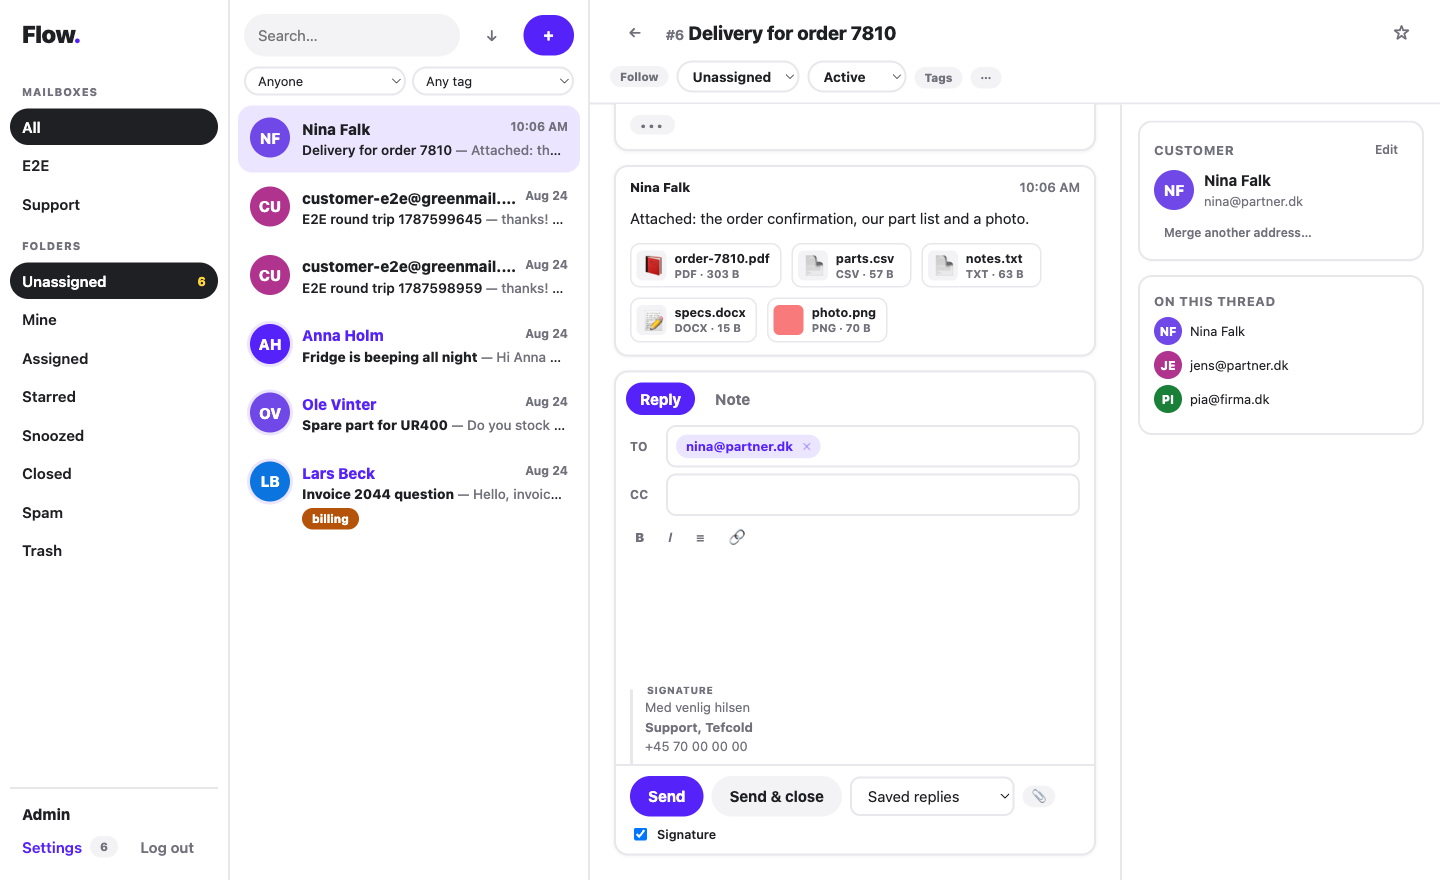
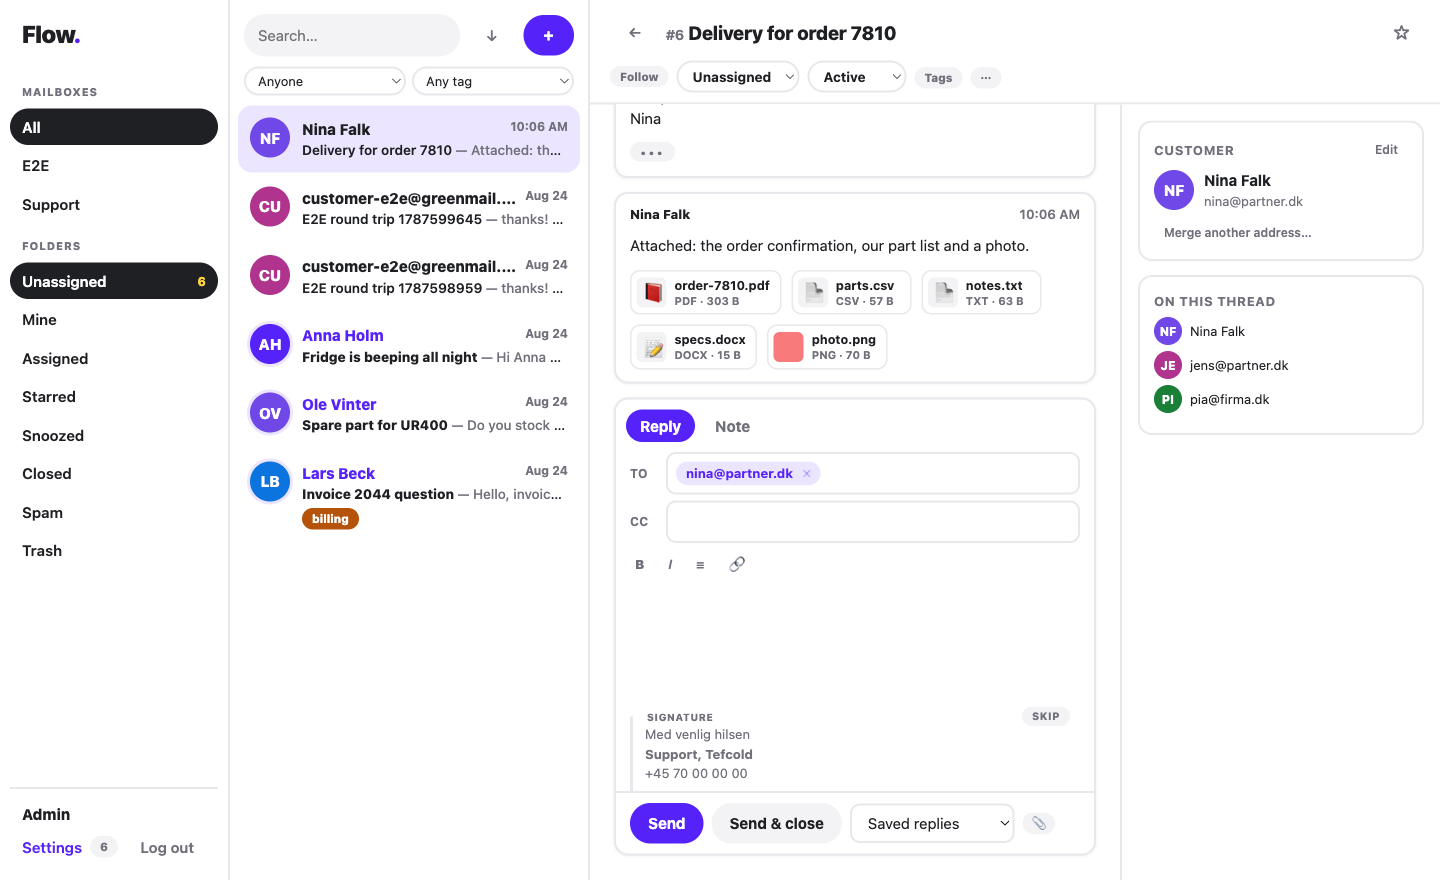
Signature toggle redesigned onto the preview block (skip/undo), org-level default signature with agent>mailbox>org precedence, provider-managed hints, brand-styled checkboxes; fresh README screenshot

diff --git a/frontend/src/components/Composer.vue b/frontend/src/components/Composer.vue
@@ -30,10 +30,11 @@ let savedDraftBody = ''
 
 const isNote = computed(() => mode.value === 'note')
 
-// What will actually be appended on send (A19): agent's own, else mailbox.
+// What will actually be appended on send (A19): agent > mailbox > org default.
 const effectiveSignature = computed(() =>
   session.agent?.signature?.trim() ||
-  inbox.mailboxes.find((m) => m.id === props.conversation.mailbox_id)?.signature || ''
+  inbox.mailboxes.find((m) => m.id === props.conversation.mailbox_id)?.signature ||
+  session.org?.default_signature || ''
 )
 const includeSignature = ref(true)
 
@@ -163,10 +164,15 @@ async function insertSavedReply(e) {
     <RichEditor ref="editor" :placeholder="isNote ? `${t.internalNote} — @name notifies` : `${t.reply}…`"
                 @input="onInput" />
     <PendingFiles :files="files" @remove="(i) => files.splice(i, 1)" />
-    <div v-if="!isNote && effectiveSignature && includeSignature" class="sig-preview"
-         data-tip="Appended when the mail is sent — toggle below">
+    <div v-if="!isNote && effectiveSignature && includeSignature" class="sig-preview">
       <span class="sig-label">signature</span>
+      <button type="button" class="sig-skip" data-tip="Don't append the signature to this mail"
+              @click="includeSignature = false">Skip</button>
       <div v-html="effectiveSignature"></div>
+    </div>
+    <div v-else-if="!isNote && effectiveSignature" class="sig-skipped">
+      Signature won't be added —
+      <button type="button" class="ghost" style="padding:0 6px" @click="includeSignature = true">undo</button>
     </div>
     <div class="actions">
       <template v-if="isNote">
@@ -182,10 +188,6 @@ async function insertSavedReply(e) {
         <label style="margin:0">
           <input type="file" multiple style="display:none" @change="pickFiles" />
           <span class="pill" style="cursor:pointer" data-tip="Attach files">📎 {{ files.length || '' }}</span>
-        </label>
-        <label v-if="effectiveSignature" class="choice" style="margin:0; font-size:12.5px"
-               data-tip="Append your signature to this reply">
-          <input type="checkbox" v-model="includeSignature" /> Signature
         </label>
       </template>
       <span class="spacer"></span>

diff --git a/frontend/src/pages/Settings.vue b/frontend/src/pages/Settings.vue
@@ -248,6 +248,12 @@ const NOTIFY_LABELS = {
         <div><label>Base URL</label><input v-model="org.base_url" placeholder="https://inbox.example.com" style="width:100%" /></div>
         <div><label>Notify from (email)</label><input v-model="org.notify_from" style="width:100%" /></div>
       </div>
+      <h3 style="margin-top:16px">Company signature (all mailboxes)</h3>
+      <p class="hint-text">Used when neither the agent nor the mailbox has its own signature.
+        Leave every signature field empty if signatures are stamped centrally by your provider
+        (Microsoft 365 transport rules, Exclaimer, CodeTwo …).</p>
+      <div class="modal-editor"><RichEditor v-model="org.default_signature" placeholder="Best regards, the Support team" /></div>
+
       <h3 style="margin-top:16px">Microsoft 365 OAuth app</h3>
       <p class="hint-text">Register an app in Entra ID with delegated IMAP.AccessAsUser.All + SMTP.Send permissions and redirect URI <code>{{ org.base_url || '&lt;base url&gt;' }}/oauth/callback</code>.</p>
       <div class="form-grid">
@@ -404,7 +410,7 @@ const NOTIFY_LABELS = {
         <label class="choice"><input type="checkbox" v-model="editing.auto_reply_enabled" /> Send "we got your mail" once per new conversation</label>
         <textarea v-if="editing.auto_reply_enabled" v-model="editing.auto_reply_body" rows="3" style="width:100%"
                   placeholder="Thanks — we received your message and will reply soon."></textarea>
-        <div style="margin-top:10px"><label>Signature (appended to replies — formatting and logos supported)</label>
+        <div style="margin-top:10px"><label>Signature (appended to replies — formatting and logos supported; leave empty if your provider stamps signatures)</label>
           <div class="modal-editor"><RichEditor v-model="editing.signature" placeholder="Best regards…" /></div></div>
         <div class="form-actions">
           <button class="primary">{{ t.save }}</button>

diff --git a/frontend/src/components/NewConversationModal.vue b/frontend/src/components/NewConversationModal.vue
@@ -35,7 +35,8 @@ function pickFiles(e) { files.value = [...files.value, ...e.target.files] }
 
 const effectiveSignature = () =>
   session.agent?.signature?.trim() ||
-  props.mailboxes.find((m) => m.id === form.value.mailbox_id)?.signature || ''
+  props.mailboxes.find((m) => m.id === form.value.mailbox_id)?.signature ||
+  session.org?.default_signature || ''
 
 async function submit() {
   if (!form.value.to.length) { error.value = 'Add at least one recipient'; return }
@@ -113,11 +114,14 @@ async function submit() {
         <PendingFiles :files="files" @remove="(i) => files.splice(i, 1)" />
         <div v-if="effectiveSignature() && includeSignature" class="sig-preview">
           <span class="sig-label">signature</span>
+          <button type="button" class="sig-skip" data-tip="Don't append the signature"
+                  @click="includeSignature = false">Skip</button>
           <div v-html="effectiveSignature()"></div>
         </div>
-        <label v-if="effectiveSignature()" class="choice" style="margin:0">
-          <input type="checkbox" v-model="includeSignature" /> Append signature
-        </label>
+        <div v-else-if="effectiveSignature()" class="sig-skipped">
+          Signature won't be added —
+          <button type="button" class="ghost" style="padding:0 6px" @click="includeSignature = true">undo</button>
+        </div>
       </div>
       <p v-if="error" class="error-text" style="margin:8px 0 0">{{ error }}</p>
       <div style="display:flex; gap:8px; align-items:center; margin-top:14px">

diff --git a/frontend/src/style.css b/frontend/src/style.css
@@ -26,6 +26,7 @@
 }
 
 * { box-sizing: border-box; }
+input[type="checkbox"], input[type="radio"] { accent-color: var(--accent); width: 15px; height: 15px; }
 
 /* ── Motion system: subtle, fast, and killable. Disable via My profile
    (body.no-motion) or the OS reduced-motion preference. */
@@ -411,6 +412,17 @@ details.quoted { color: var(--muted); }
   color: var(--muted); padding: 0 6px;
 }
 .sig-preview img { max-height: 60px; }
+.sig-preview .sig-skip {
+  position: absolute; top: -10px; right: 10px;
+  background: var(--panel-deep); border: 0; color: var(--muted);
+  font-size: 10.5px; font-weight: 800; text-transform: uppercase; letter-spacing: .05em;
+  border-radius: 99px; padding: 2px 10px; cursor: pointer;
+}
+.sig-preview .sig-skip:hover { background: var(--danger-soft); color: var(--danger); }
+.sig-skipped {
+  margin: 8px 14px 0; font-size: 12.5px; color: var(--muted); font-weight: 600;
+  display: flex; align-items: center; gap: 2px;
+}
 
 /* Login */
 .login-wrap { height: 100%; display: grid; place-items: center; }

diff --git a/frontend/src/stores/session.js b/frontend/src/stores/session.js
@@ -3,7 +3,7 @@ import { api, setCsrf } from '../api'
 import { setLocale } from '../strings'
 
 export const useSession = defineStore('session', {
-  state: () => ({ agent: null, loaded: false }),
+  state: () => ({ agent: null, org: null, loaded: false }),
   getters: {
     isAdmin: (s) => s.agent?.role === 'admin',
   },
@@ -12,12 +12,14 @@ export const useSession = defineStore('session', {
       const data = await api.get('/api/session')
       setCsrf(data.csrf_token)
       this.agent = data.agent
+      this.org = data.org || null
       this.loaded = true
     },
     async login(email, password, otpCode) {
       const data = await api.post('/api/session', { email, password, otp_code: otpCode })
       setCsrf(data.csrf_token)
       this.agent = data.agent
+      this.org = data.org || null
       if (data.agent?.locale) setLocale(data.agent.locale)
     },
     async logout() {

diff --git a/public/index.html b/public/index.html
@@ -4,8 +4,8 @@
     <meta charset="UTF-8" />
     <meta name="viewport" content="width=device-width, initial-scale=1.0" />
     <title>Flow</title>
-    <script type="module" crossorigin src="/assets/index-CFtfbxqc.js"></script>
-    <link rel="stylesheet" crossorigin href="/assets/index-BYWkptXf.css">
+    <script type="module" crossorigin src="/assets/index-DP7jAxpc.js"></script>
+    <link rel="stylesheet" crossorigin href="/assets/index-BU6LR-8J.css">
   </head>
   <body>
     <div id="app"></div>

diff --git a/app/controllers/api/org_settings_controller.rb b/app/controllers/api/org_settings_controller.rb
@@ -6,7 +6,7 @@ class Api::OrgSettingsController < Api::BaseController
   end
 
   def update
-    permitted = params.permit(:site_name, :base_url, :notify_from,
+    permitted = params.permit(:site_name, :base_url, :notify_from, :default_signature,
                               :ms_client_id, :ms_client_secret, :ms_tenant,
                               :google_client_id, :google_client_secret)
     permitted.delete(:ms_client_secret) if permitted[:ms_client_secret].blank?
@@ -19,7 +19,7 @@ class Api::OrgSettingsController < Api::BaseController
 
   def settings_json
     s = OrgSetting.current
-    s.as_json(only: [ :site_name, :base_url, :notify_from, :ms_client_id, :ms_tenant, :google_client_id ])
+    s.as_json(only: [ :site_name, :base_url, :notify_from, :default_signature, :ms_client_id, :ms_tenant, :google_client_id ])
      .merge("ms_client_secret_set" => s.ms_client_secret.present?,
             "google_client_secret_set" => s.google_client_secret.present?,
             "microsoft_configured" => MailOauth.configured?("microsoft"),

diff --git a/db/schema.rb b/db/schema.rb
@@ -10,7 +10,7 @@
 #
 # It's strongly recommended that you check this file into your version control system.
 
-ActiveRecord::Schema[8.1].define(version: 2026_08_25_050000) do
+ActiveRecord::Schema[8.1].define(version: 2026_08_25_060000) do
   create_table "action_mailbox_inbound_emails", force: :cascade do |t|
     t.datetime "created_at", null: false
     t.string "message_checksum", null: false
@@ -267,6 +267,7 @@ ActiveRecord::Schema[8.1].define(version: 2026_08_25_050000) do
   create_table "org_settings", force: :cascade do |t|
     t.string "base_url"
     t.datetime "created_at", null: false
+    t.text "default_signature"
     t.string "google_client_id"
     t.string "google_client_secret"
     t.string "ms_client_id"

diff --git a/app/controllers/api/sessions_controller.rb b/app/controllers/api/sessions_controller.rb
@@ -41,6 +41,7 @@ class Api::SessionsController < Api::BaseController
 
   def agent_json(agent)
     { agent: agent.as_json(only: [ :id, :email, :name, :role, :locale, :timezone ])
-                  .merge(notify_prefs: agent.notify_prefs, ui_prefs: agent.ui_prefs || {}) }
+                  .merge(notify_prefs: agent.notify_prefs, ui_prefs: agent.ui_prefs || {}),
+      org: { default_signature: OrgSetting.current.default_signature } }
   end
 end

diff --git a/app/controllers/api/conversations_controller.rb b/app/controllers/api/conversations_controller.rb
@@ -224,7 +224,8 @@ class Api::ConversationsController < Api::BaseController
   end
 
   def append_signature(html, mailbox)
-    signature = current_agent.signature.presence || mailbox.signature
+    signature = current_agent.signature.presence || mailbox.signature.presence ||
+                OrgSetting.current.default_signature
     return html if signature.blank? || params[:skip_signature].present?
     "#{html}<br><br>--<br>#{signature}"
   end

diff --git a/app/controllers/api/messages_controller.rb b/app/controllers/api/messages_controller.rb
@@ -61,7 +61,8 @@ class Api::MessagesController < Api::BaseController
 
 
   def append_signature(html, mailbox)
-    signature = current_agent.signature.presence || mailbox.signature
+    signature = current_agent.signature.presence || mailbox.signature.presence ||
+                OrgSetting.current.default_signature
     return html if signature.blank? || params[:skip_signature]
     "#{html}<br><br>--<br>#{signature}"
   end

diff --git a/db/migrate/20260825060000_add_default_signature_to_org_settings.rb b/db/migrate/20260825060000_add_default_signature_to_org_settings.rb
@@ -1,0 +1,5 @@
+class AddDefaultSignatureToOrgSettings < ActiveRecord::Migration[8.1]
+  def change
+    add_column :org_settings, :default_signature, :text
+  end
+end
